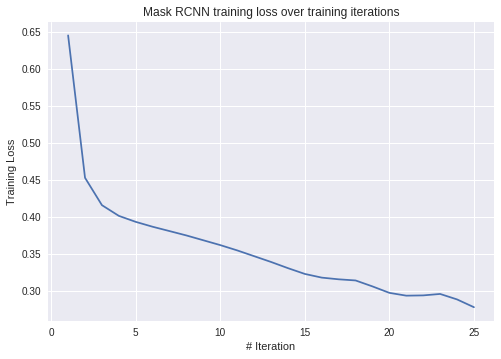
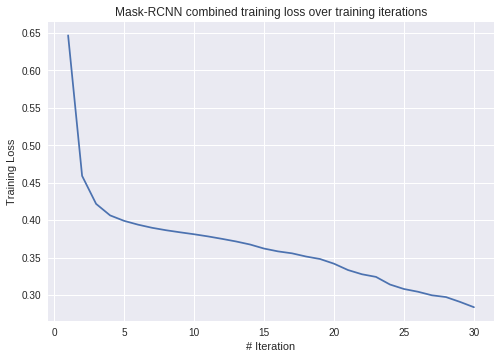
wraping up

diff --git a/rcnn.py b/rcnn.py
@@ -528,6 +528,10 @@ learning_rate_maskrcnn = baseLR
 train_vars_mask = tf.get_collection(tf.GraphKeys.TRAINABLE_VARIABLES, "Mask_RCNN") 
 optimizer_maskrcnn = tf.train.AdamOptimizer(learning_rate_maskrcnn).minimize(avg_loss_maskrcnn, var_list=train_vars_mask)
 
+learning_rate_maskrcnn_total = baseLR
+total_loss_maskrcnn = avg_loss_maskrcnn + rpnTotalLoss
+optimizer_maskrcnn_total = tf.train.AdamOptimizer(learning_rate_maskrcnn_total).minimize(total_loss_maskrcnn)
+
 predictions_maskrcnn = tf.cast(tf.nn.sigmoid(conv15) > 0.5, tf.float32)
 correct_preds_maskrcnn = tf.cast(tf.equal(gt_mask_resized_round, predictions_maskrcnn), tf.float32)
 accuracy_maskrcnn = tf.reduce_mean(correct_preds_maskrcnn)
@@ -936,6 +940,82 @@ def run_maskrcnn(sess, num_epochs=3):
 
 	plotTrainingLoss(trainingLoss, 'Mask RCNN')
 
+def run_maskrcnn_total(sess, num_epochs=3):
+	print 'Mask RCNN'
+	trainingBase = True
+	trainingRPN = True
+	trainingFrcnn = True
+	Mask_RCNN = True
+
+	l1Arr = []
+	l2Arr = []
+	l3Arr = []
+
+	for epoch in range(num_epochs):
+
+		# Training
+		start_time = time.time()
+		trainingPhase = True
+		sess.run(train_init)
+		num_batches = 0
+		total_acc = 0.0
+		total_acci = 0.0
+		total_l1 = 0.0
+		total_l2 = 0.0
+		total_l3 = 0.0
+		try:
+			while True:
+				_, acc, acci, l1, l2, l3 = sess.run([optimizer_maskrcnn_total, accuracy_maskrcnn, accuracy_maskrcnn_iou, loss_cls_reduced, averageSmoothLossReg, avg_loss_maskrcnn])
+				num_batches = num_batches + 1
+				total_acc = total_acc + acc
+				total_acci = total_acci + acci
+				total_l1 = total_l1 + l1
+				total_l2 = total_l2 + l2
+				total_l3 = total_l3 + l3
+		except tf.errors.OutOfRangeError:
+			pass
+		except tf.errors.InvalidArgumentError as e:
+			print('Invalid argument error')
+			pdb.set_trace()
+		except KeyboardInterrupt:
+			sys.exit()
+		except:
+			print('Error')
+		print('(Training) Average loss at epoch {0}: {1}'.format(epoch, total_l3/num_batches))
+		print('(Training) Accuracy at epoch {0}: {1} '.format(epoch, total_acc/num_batches))
+		print('(Training) Accuracy (iou) at epoch {0}: {1} '.format(epoch, total_acci/num_batches))
+		print('(Training) Epoch {1} took: {0} seconds'.format(time.time() - start_time, epoch))
+
+		l1Arr.append(total_l1/num_batches)
+		l2Arr.append(total_l2/num_batches)
+		l3Arr.append(total_l3/num_batches)
+
+	# Testing
+	epoch = -1
+	start_time = time.time()
+	trainingPhase = False
+	sess.run(test_init)
+	num_batches = 0
+	total_loss = 0.0
+	total_acc = 0.0
+	total_acci = 0.0
+	try:
+		while True:
+			l, acc, acci = sess.run([avg_loss_maskrcnn, accuracy_maskrcnn, accuracy_maskrcnn_iou])
+			num_batches = num_batches + 1
+			total_loss = total_loss + l
+			total_acc = total_acc + acc
+			total_acci = total_acci + acci
+	except tf.errors.OutOfRangeError:
+		pass
+	print('\t(Testing) Accuracy at epoch {0}: {1} '.format(epoch, total_acc/num_batches))
+	print('\t(Testing) Accuracy (iou) at epoch {0}: {1} '.format(epoch, total_acci/num_batches))
+	print('\t(Testing) Epoch {1} took: {0} seconds'.format(time.time() - start_time, epoch))
+
+	plotTrainingLoss(l1Arr, 'RPN Proposal classifier')
+	plotTrainingLoss(l2Arr, 'RPN Proposal regressor')
+	plotTrainingLoss(l3Arr, 'Mask-RCNN combined')
+
 def run_1_1(sess):
 	run_rpn_cls(sess, 20)
 
@@ -947,8 +1027,12 @@ def run_2_2(sess):
 	run_frcnn_rpn(sess, num_epochs=50)
 
 def run_2_3(sess):
-	run_rpn_reg_cls(sess, num_epochs=20)
-	run_maskrcnn(sess, num_epochs=25)
+	# Alternate training
+	# run_rpn_reg_cls(sess, num_epochs=20)
+	# run_maskrcnn(sess, num_epochs=25)
+
+	# Combined training
+	run_maskrcnn_total(sess, 30)
 
 def alternateTraining(sess):
 	run_rpn_reg_cls(sess, num_epochs=20)
@@ -967,10 +1051,10 @@ writer = tf.summary.FileWriter('./graphs', tf.get_default_graph())
 with tf.Session() as sess:
 	sess.run(tf.global_variables_initializer())
 
-	run_1_1(sess)
+	# run_1_1(sess)
 	# run_1_2(sess)
 	# run_2_2(sess)
-	# run_2_3(sess)
+	run_2_3(sess)
 
 	writer = tf.summary.FileWriter('./graphs', sess.graph)
 	
